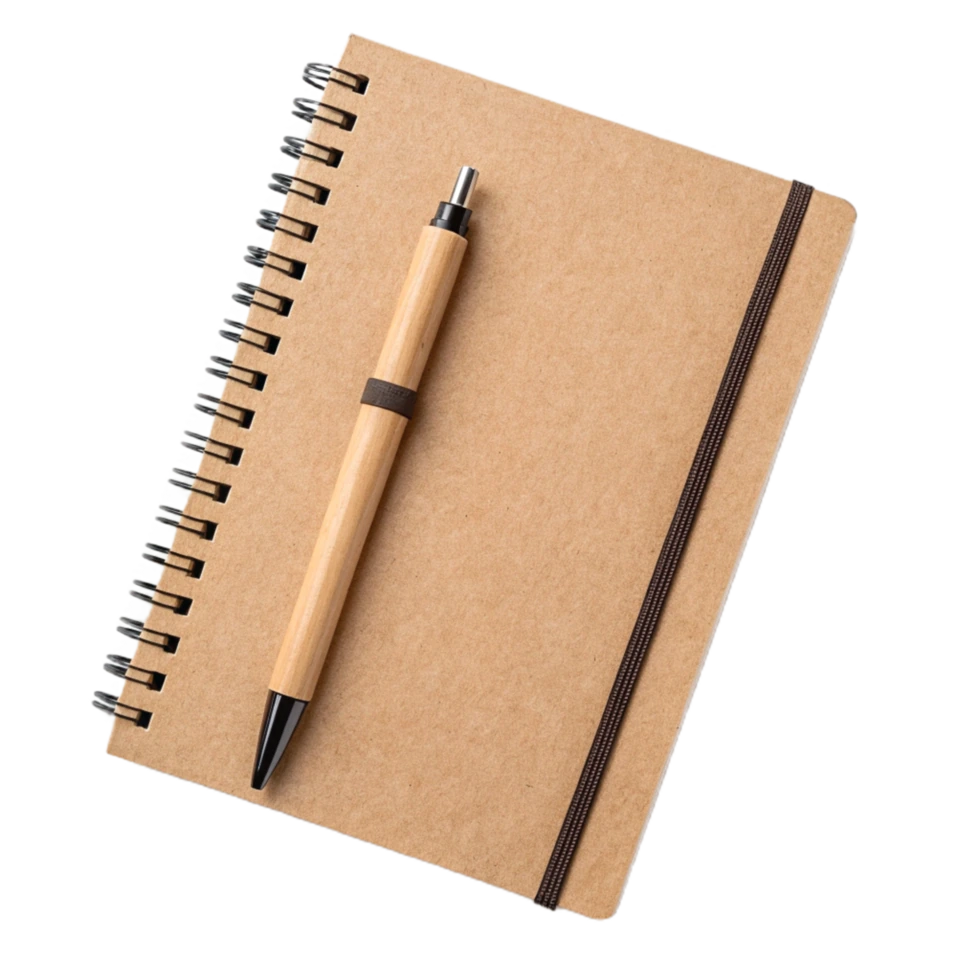
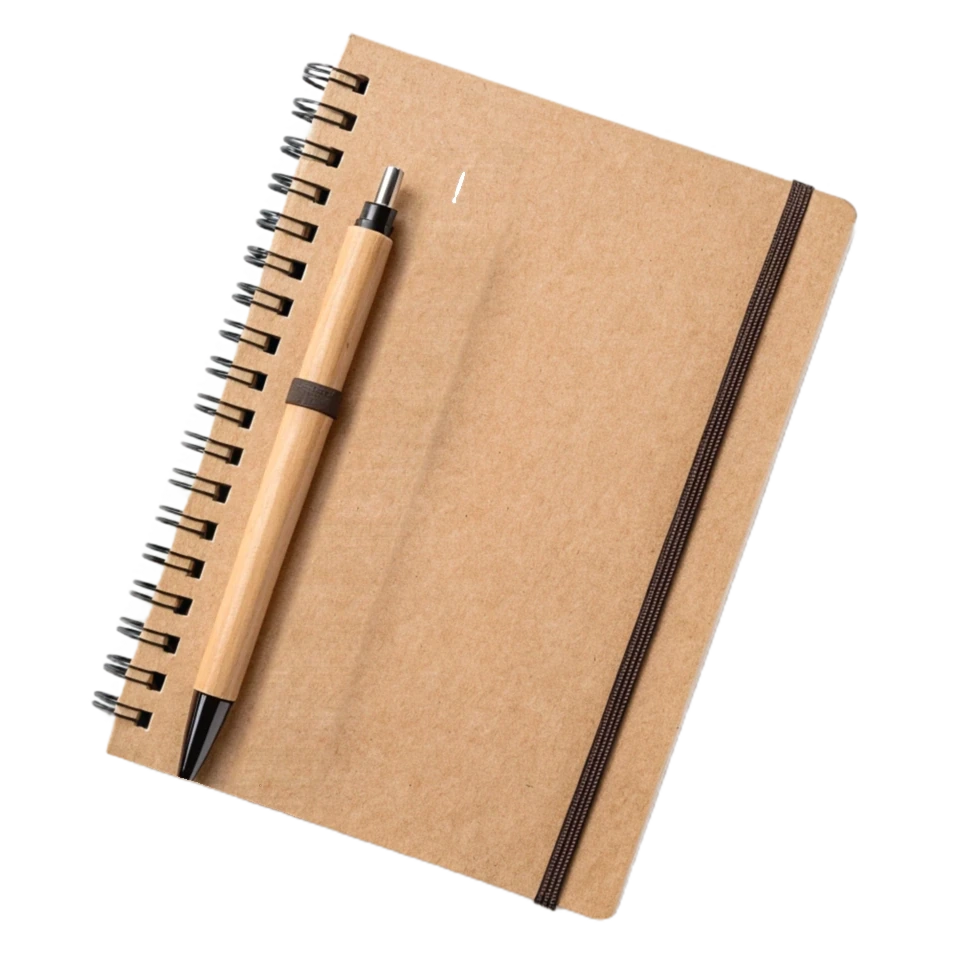
Move the diary's pen to the spiral, and make the hint readable
The hint was too faint to notice, and the pen split the cover in two so there
was nowhere good to put it.

The pen is lifted along its measured axis and set back down 75px left, against
the binding. The cover underneath is repaired by cloning kraft from a parallel
strip 150px to the right, which keeps the paper's grain and direction instead
of smoothing them into a flat patch, with each row's brightness matched to the
real cover either side.

Two things that had to be got right, both of which showed as visible smudges
first: the clone donor must itself be opaque, kraft-coloured and clear of the
pen, or it reaches past the cover's top edge into transparency and then into
the spiral's shadows; and the pen must be clipped to the notebook's silhouette,
or laying it down writes opacity where the notebook is not and grows a tab off
the bottom corner.

With the cover no longer split, the clear run between pen and elastic band is a
steady ~355px — 204px once scaled into its box — so the hint goes to 24px and a
darker brown, centred on the cover rather than tucked below the pen.

Changed region(s): [[0.1837, 0.1531, 0.5204, 0.8265]]

diff --git a/src/app/components/Landing.tsx b/src/app/components/Landing.tsx
@@ -414,7 +414,7 @@ export default function Frame() {
                   the whole notebook is tilted by. */}
               <p
                 aria-hidden
-                className="font-hand pointer-events-none absolute left-[198px] top-[456px] -translate-x-1/2 -translate-y-1/2 rotate-[19deg] whitespace-nowrap text-[20px] leading-none text-[#6f5238]/80"
+                className="font-hand pointer-events-none absolute left-[230px] top-[351px] -translate-x-1/2 -translate-y-1/2 rotate-[19deg] whitespace-nowrap text-[24px] leading-none text-[#5f452c]/90"
               >
                 hover to know about me
               </p>
